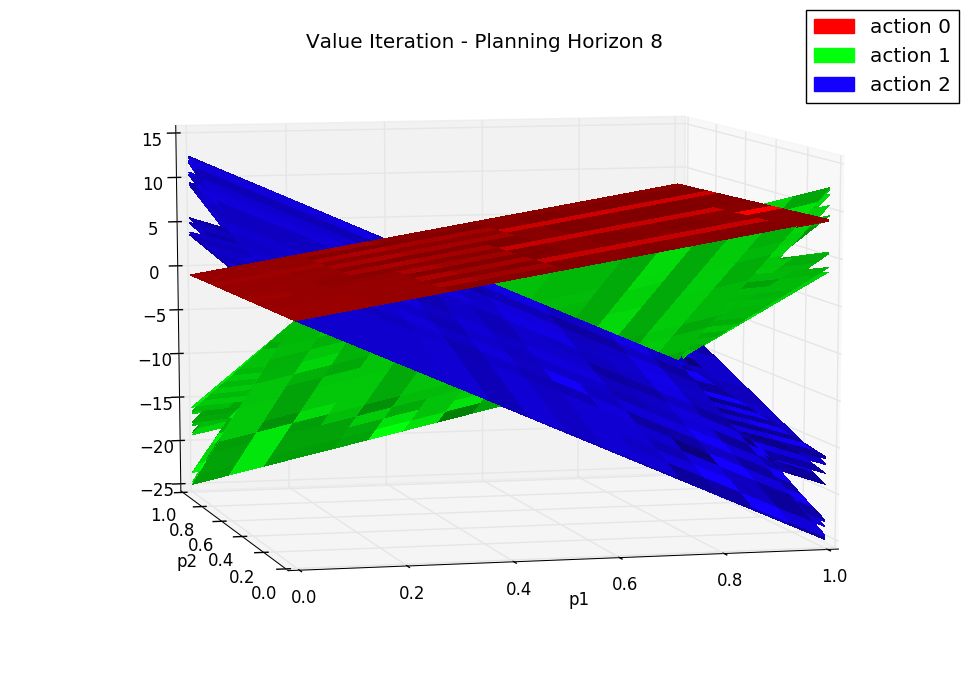
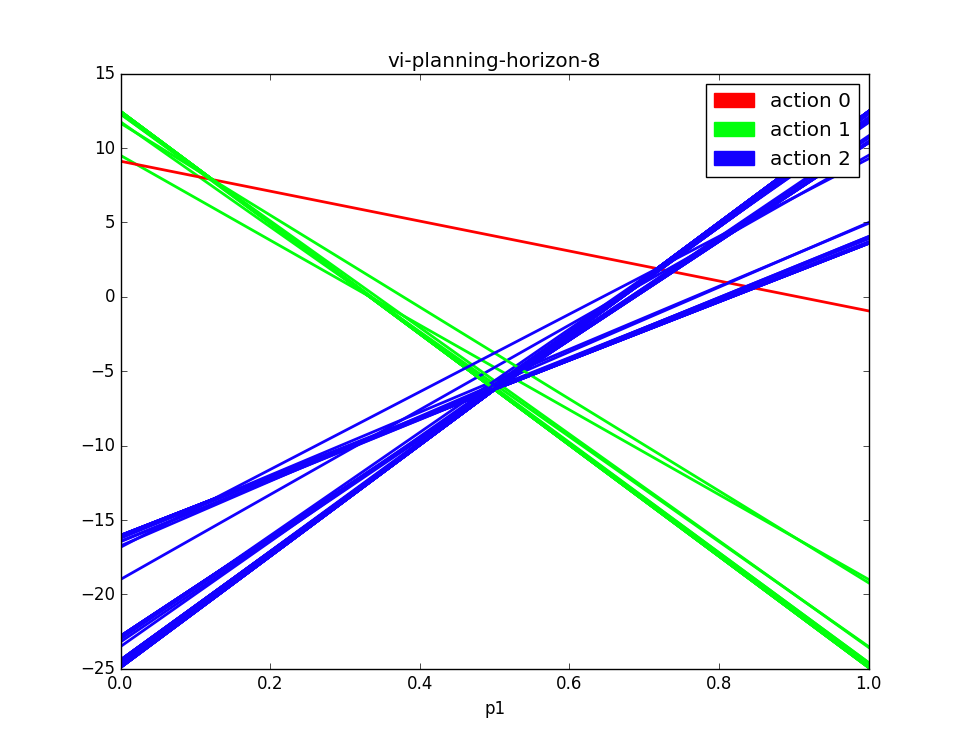
VI: Fixed some problems with pruning algorithm
Started adding experiment results

Changed region(s): [[0.0933, 0.0, 0.9948, 0.9559]]

diff --git a/experiments/scripts/approximate_vi_eval.py b/experiments/scripts/approximate_vi_eval.py
@@ -1,10 +1,10 @@
+from __future__ import division
 from .pickle_wrapper import load_pkl
 from .plot_alpha_vectors import plot_alpha_vectors
 import os
 import time
 from pomdpy.agent import Results
 import numpy as np
-
 
 my_dir = os.path.dirname(__file__)
 weight_dir = os.path.join(my_dir, '..', '..', 'experiments', 'pickle_jar')
@@ -18,11 +18,16 @@ def plot_baseline(horizon, baseline):
 
 
 def eval_baseline(n_epochs, agent, horizon):
+    n_repeats = 5
+    random_action = False
 
     if horizon == 8:
         baseline = gamma_8
     elif horizon == 1:
         baseline = gamma_1
+    elif horizon == -1:
+        baseline = None
+        random_action = True
     else:
         raise ValueError('Unsupported baseline planning horizon')
 
@@ -32,101 +37,54 @@ def eval_baseline(n_epochs, agent, horizon):
     experiment_results = Results()
     wrong_door_count = 0
 
-    for epoch in range(n_epochs):
-        epoch_start = time.time()
+    for repeats in range(n_repeats):
+        np.random.seed(int(agent.model.seed) + 1)
+        agent.model.seed = str(int(agent.model.seed) + 1)
 
-        model.reset_for_epoch()
+        for epoch in range(n_epochs):
+            epoch_start = time.time()
+            model.reset_for_epoch()
 
-        # evaluate agent
-        reward = 0
-        discounted_reward = 0
-        discount = 1.0
-        belief = model.get_initial_belief_state()
-        step = 0
+            # evaluate agent
+            reward = 0
+            discounted_reward = 0
+            discount = 1.0
+            belief = model.get_initial_belief_state()
+            step = 0
 
-        while True:
-            action, v_b = solver.select_action(belief, baseline)
-            step_result = model.generate_step(action)
+            while True:
+                if random_action:
+                    action = np.random.randint(model.num_actions)
+                else:
+                    action, v_b = solver.select_action(belief, baseline)
 
-            if not step_result.is_terminal:
-                belief = model.belief_update(belief, action, step_result.observation)
+                step_result = model.generate_step(action)
 
-            if step_result.reward == -20:
-                wrong_door_count += 1
+                if not step_result.is_terminal:
+                    belief = model.belief_update(belief, action, step_result.observation)
 
-            reward += step_result.reward
-            discounted_reward += discount * step_result.reward
-            discount *= model.discount
-            step += 1
+                if step_result.reward == -20:
+                    wrong_door_count += 1
 
-            if step_result.is_terminal:
-                break
+                reward += step_result.reward
+                discounted_reward += discount * step_result.reward
+                discount *= model.discount
+                step += 1
 
-        # print('\navg reward/step: {} avg discounted reward/step: {}'.format(reward / step, discounted_reward / step))
+                if step_result.is_terminal:
+                    break
 
-        experiment_results.time.add(time.time() - epoch_start)
-        experiment_results.undiscounted_return.count += step
-        experiment_results.undiscounted_return.add(reward)
-        experiment_results.discounted_return.count += step
-        experiment_results.discounted_return.add(discounted_reward)
+            experiment_results.time.add(time.time() - epoch_start)
+            experiment_results.undiscounted_return.count += 1
+            experiment_results.undiscounted_return.add(reward)
+            experiment_results.discounted_return.count += 1
+            experiment_results.discounted_return.add(discounted_reward)
 
-    print('\nepochs: ' + str(model.n_epochs))
-    print('ave undiscounted return/epoch: ' + str(experiment_results.undiscounted_return.mean) +
-            ' +- ' + str(experiment_results.undiscounted_return.std_err()))
-    print('ave discounted return/epoch: ' + str(experiment_results.discounted_return.mean) +
-            ' +- ' + str(experiment_results.discounted_return.std_err()))
-    print('ave time/epoch: ' + str(experiment_results.time.mean))
-    print('wrong door count: {}'.format(wrong_door_count))
-
-
-def random_baseline(n_epochs, agent):
-    model = agent.model
-
-    experiment_results = Results()
-    wrong_door_count = 0
-
-    for epoch in range(n_epochs):
-        epoch_start = time.time()
-
-        model.reset_for_epoch()
-
-        # evaluate agent
-        reward = 0
-        discounted_reward = 0
-        discount = 1.0
-        belief = model.get_initial_belief_state()
-        step = 0
-
-        while True:
-            action = np.random.randint(model.num_actions)
-            step_result = model.generate_step(action)
-
-            if not step_result.is_terminal:
-                belief = model.belief_update(belief, action, step_result.observation)
-
-            if step_result.reward == -20:
-                wrong_door_count += 1
-
-            reward += step_result.reward
-            discounted_reward += discount * step_result.reward
-            discount *= model.discount
-            step += 1
-
-            if step_result.is_terminal:
-                break
-
-        # print('\navg reward/step: {} avg discounted reward/step: {}'.format(reward / step, discounted_reward / step))
-
-        experiment_results.time.add(time.time() - epoch_start)
-        experiment_results.undiscounted_return.count += 1
-        experiment_results.undiscounted_return.add(reward)
-        experiment_results.discounted_return.count += 1
-        experiment_results.discounted_return.add(discounted_reward)
-
-    print('\nepochs: ' + str(model.n_epochs))
-    print('ave undiscounted return/epoch: ' + str(experiment_results.undiscounted_return.mean) +
-          ' +- ' + str(experiment_results.undiscounted_return.std_err()))
-    print('ave discounted return/epoch: ' + str(experiment_results.discounted_return.mean) +
-          ' +- ' + str(experiment_results.discounted_return.std_err()))
-    print('ave time/epoch: ' + str(experiment_results.time.mean))
-    print('wrong door count: {}'.format(wrong_door_count))
+    print('Results averaged over {} experiments with different random seeds\n'.format(n_repeats))
+    print('epochs/experiment: {}'.format(model.n_epochs))
+    print('undiscounted return/epoch: ' + str(experiment_results.undiscounted_return.mean) +
+          ' std dev: ' + str(experiment_results.undiscounted_return.std_dev()))
+    print('discounted return/epoch: ' + str(experiment_results.discounted_return.mean) +
+          ' std dev: ' + str(experiment_results.discounted_return.std_dev()))
+    print('time/epoch: ' + str(experiment_results.time.mean))
+    print('wrong door count/experiment: {}'.format(wrong_door_count / n_repeats))

diff --git a/pomdpy/solvers/value_iteration.py b/pomdpy/solvers/value_iteration.py
@@ -111,7 +111,8 @@ class ValueIteration(Solver):
             Q.update({best})
             F.remove(best)
         while F:
-            av_i = F.pop()
+            av_i = F.pop()  # get a reference to av_i
+            F.add(av_i)  # don't want to remove it yet from F
             dominated = False
             for av_j in Q:
                 c = np.append(np.zeros(n_states), [1.])
@@ -122,12 +123,39 @@ class ValueIteration(Solver):
                 if res.x[n_states] > 0.0:
                     # this one is dominated
                     dominated = True
+                    F.remove(av_i)
                     break
 
             if not dominated:
-                Q.update({av_i})
-
+                max_k = -np.inf
+                best = None
+                for av_k in F:
+                    b = res.x[0:2]
+                    v = np.dot(av_k.v, b)
+                    if v > max_k:
+                        max_k = v
+                        best = av_k
+                F.remove(best)
+                if not self.check_duplicate(Q, best):
+                    Q.update({best})
         self.gamma = Q
+
+    @staticmethod
+    def check_duplicate(a, av):
+        """
+        Check whether alpha vector av is already in set a
+
+        :param a:
+        :param av:
+        :return:
+        """
+        for av_i in a:
+            if np.allclose(av_i.v, av.v):
+                return True
+            if av_i.v[0] == av.v[0] and av_i.v[1] > av.v[1]:
+                return True
+            if av_i.v[1] == av.v[1] and av_i.v[0] > av.v[0]:
+                return True
 
     @staticmethod
     def select_action(belief, vector_set):

diff --git a/vi.py b/vi.py
@@ -52,12 +52,12 @@ if __name__ == '__main__':
         env = TigerModel(args)
         solver = ValueIteration
         agent = Agent(env, solver)
-        print('\nRunning classic VI agent with planning horizon of 8...')
+        print('\nRunning classic VI agent with planning horizon of 8...\n')
         approximate_vi_eval.eval_baseline(args['n_epochs'], agent, 8)
-        print('\nRunning classic VI agent with planning horizon of 1...')
+        print('\nRunning classic VI agent with planning horizon of 1...\n')
         approximate_vi_eval.eval_baseline(args['n_epochs'], agent, 1)
-        print('\nRunning random agent...')
-        approximate_vi_eval.random_baseline(args['n_epochs'], agent)
+        print('\nRunning random agent...\n')
+        approximate_vi_eval.eval_baseline(args['n_epochs'], agent, -1)
 
     else:
         if args['solver'] == 'ValueIteration':

diff --git a/experiments/scripts/visualize_gamma.py b/experiments/scripts/visualize_gamma.py
@@ -4,9 +4,10 @@ from experiments.scripts import pickle_wrapper
 import os
 
 if __name__ == '__main__':
+    n_actions = 3
     my_dir = os.path.dirname(__file__)
     weight_dir = os.path.join(my_dir, '..', '..', 'experiments', 'pickle_jar')
 
-    gamma = pickle_wrapper.load_pkl(os.path.join(weight_dir, 'linear_alpha_net_vectors.pkl'))
+    gamma = pickle_wrapper.load_pkl(os.path.join(weight_dir, 'VI_planning_horizon_8.pkl'))
 
-    plot_alpha_vectors.plot_alpha_vectors('LAN', gamma, 3)
+    plot_alpha_vectors.plot_alpha_vectors('vi-planning-horizon-8', gamma, n_actions)

diff --git a/experiments/README.md b/experiments/README.md
@@ -1,57 +1,43 @@
 # Experiment Notes
 
-## Baselines
+To determine whether it is possible to approximate a value function for a small POMDP, I 
+used simple linear function approximation to predict the pruned set of alpha vectors. For the Tiger 
+problem, one can visually inspect the value function with a planning horizon of eight, and see that it can be
+approximated by three well-placed alpha vectors. Using the one-step rewards for each of the three actions
+as a basis function, I computed the three alpha vectors as follows:
 
-```python
-{'beta': 0.001,
- 'discount': 0.95,
- 'env': 'Tiger',
- 'epsilon_decay': 0.95,
- 'epsilon_decay_step': 20,
- 'epsilon_minimum': 0.1,
- 'epsilon_start': 0.5,
- 'learning_rate': 0.0025,
- 'learning_rate_decay': 0.96,
- 'learning_rate_decay_step': 10,
- 'learning_rate_minimum': 0.0025,
- 'max_steps': 200,
- 'n_epochs': 1000,
- 'planning_horizon': 5,
- 'preferred_actions': False,
- 'save': False,
- 'seed': 1993,
- 'solver': 'VI-Baseline',
- 'test': 10,
- 'use_tf': False}
-```
+<insert MathJax equation here>
 
-Running classic VI agent with planning horizon of 8...
+where each alpha vector has the same dimension as the belief state space. I initialized all weights to 1.0, so that
+the agent essentially started learning from a planning horizon of 1 (greedy action-selection with no planning).
 
-epochs: 1000
-ave undiscounted return/epoch: 4.39679369829 +- 0.136399084841
-ave discounted return/epoch: 3.86836842853 +- 0.126652175681
-ave time/epoch: 0.000742731332779
-wrong door count: 87
+The goal of this learning task is to determine whether the classic value iteration algorithm having exponential
+run time complexity can be avoided with function approximation. For baselines, I compared against planning horizons
+of one and eight, computed with Lark's pruning algorithm, as well as a random agent. 
 
-Running classic VI agent with planning horizon of 1...
+## Baseline Results
 
-epochs: 1000
-ave undiscounted return/epoch: 5.26891697607 +- 0.167387410448
-ave discounted return/epoch: 4.95916315759 +- 0.158979475964
-ave time/epoch: 7.1573972702e-05
-wrong door count: 127
+*Results averaged over 5 experiments with different random seeds*
 
-Running random agent...
+| planning horizon | epochs/experiment  | mean reward/epoch | std dev reward/epoch | mean wrong door count  |
+|---|---|---|---|---|
+| 8 | 1000 | 4.703091980822256 | 8.3286422581 | 102.4 |
+| 1 | 1000  | 4.45726700400672 | 10.3950449814 | 148.6 |
+| random | 1000  | -5.466722724994926  | 14.6177021188  | 503.0 |
 
-epochs: 1000
-ave undiscounted return/epoch: -6.91605000138 +- 0.332756869777
-ave discounted return/epoch: -6.71346215429 +- 0.324032687787
-ave time/epoch: 3.98526191711e-05
-wrong door count: 516
+The mean wrong door counts represent the number of times the agent opened the door with the tiger.
 
-## Linear Alpha Net
+Here are plots of the alpha vectors returned by the classic value iteration algorithm.
+There are 77 alpha vectors in the value function for the planning horizon of 8.
 
-Best results so far: 
+![VI Planning Horizon 8](img/vi-horizon-8.png)
+
+![VI Planning Horizon 1](img/vi-horizon-1.png)
+
+
+## Linear Function Approximation
+
+The best results so far were obtained with the following parameters: 
 
 ```python
 {'beta': 0.001,
@@ -61,7 +47,7 @@ Best results so far:
  'epsilon_decay_step': 75,
  'epsilon_minimum': 0.02,
  'epsilon_start': 0.2,
- 'learning_rate': 0.01,
+ 'learning_rate': 0.05,
  'learning_rate_decay': 0.996,
  'learning_rate_decay_step': 50,
  'learning_rate_minimum': 0.00025,
@@ -70,7 +56,7 @@ Best results so far:
  'planning_horizon': 5,
  'preferred_actions': False,
  'save': False,
- 'seed': 1993,
+ 'seed': 123,
  'solver': 'LinearAlphaNet',
  'test': 10,
  'use_tf': True}
@@ -81,9 +67,6 @@ Best results so far:
 * mean discounted return per epoch was `3.997`
 * std dev for discounted return was `9.008`
 * wrong door count: 16
-
-### TODO 
-* Multiple experiments with different random seeds
 
 ### Results
 * experiments/results/LinearAlphaNet-best

diff --git a/README.md b/README.md
@@ -1,7 +1,7 @@
 ## POMDPy
 ![Build](https://travis-ci.org/pemami4911/POMDPy.svg?branch=master) ![Python27](https://img.shields.io/badge/python-2.7-blue.svg)  ![Python35](https://img.shields.io/badge/python-3.5-blue.svg)
 
-This open-source project contains a framework for implementing discrete action/state POMDPs in Python. This work was inspired by [TAPIR](http://robotics.itee.uq.edu.au/~hannakur/dokuwiki/doku.php?id=wiki:tapir) and the [POMCP](http://www0.cs.ucl.ac.uk/staff/D.Silver/web/Applications.html) algorithm.
+This open-source project contains a framework for implementing discrete action/state POMDPs in Python.
 
 [What the heck is a POMDP?](http://www.pomdp.org/tutorial/index.shtml)
 
@@ -55,10 +55,12 @@ To solve a POMDP with POMCP, the following classes should be implemented:
 
 ### Value Iteration
 
-Implemented with [Lark's pruning algorithm.](http://www.bgu.ac.il/~shanigu/Publications/skyline_AMAI.3.pdf)
+Implemented with [Lark's pruning algorithm.](https://arxiv.org/ftp/arxiv/papers/1302/1302.1525.pdf)
 
 ## Running an example ##
-**You can run tests with POMCP on RockSample, and use Value Iteration to solve the Tiger example.**
+You can run tests with POMCP on RockSample, and use Value Iteration to solve the Tiger example.
+
+**Note: The RockSample env needs some work to fully match up with the implementation described in Silver et al.**
 
 You can optionally edit the RockSample configuration file `rock_sample_config.json` to change the map size or environment parameters.
 This file is located in `pompdy/config`.
@@ -75,4 +77,6 @@ To run RockSample with POMCP:
 To run the Tiger example with the full-width planning value iteration algorithm: 
 
      python vi.py --env Tiger --solver ValueIteration --planning_horizon 8 --n_epochs 10 --max_steps 10 --seed 123
+
+## Experimental Results for Approximate Value Iteration
 
